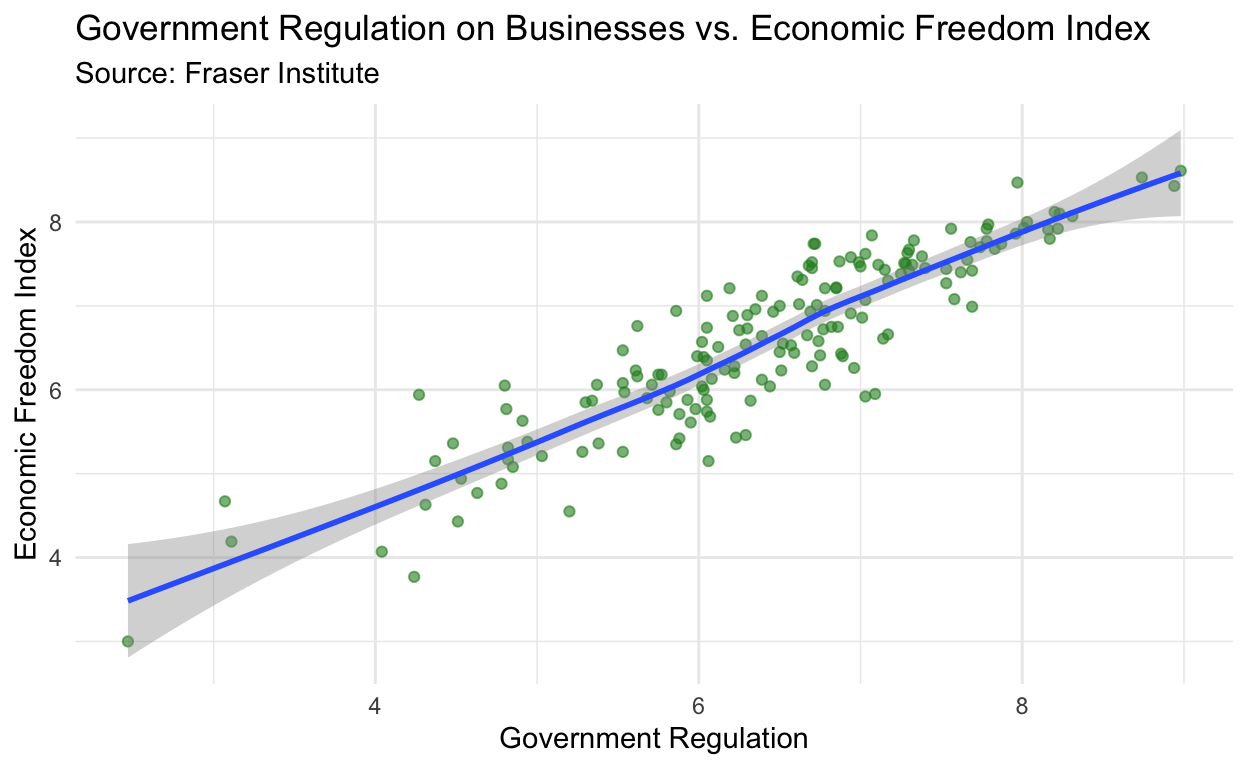
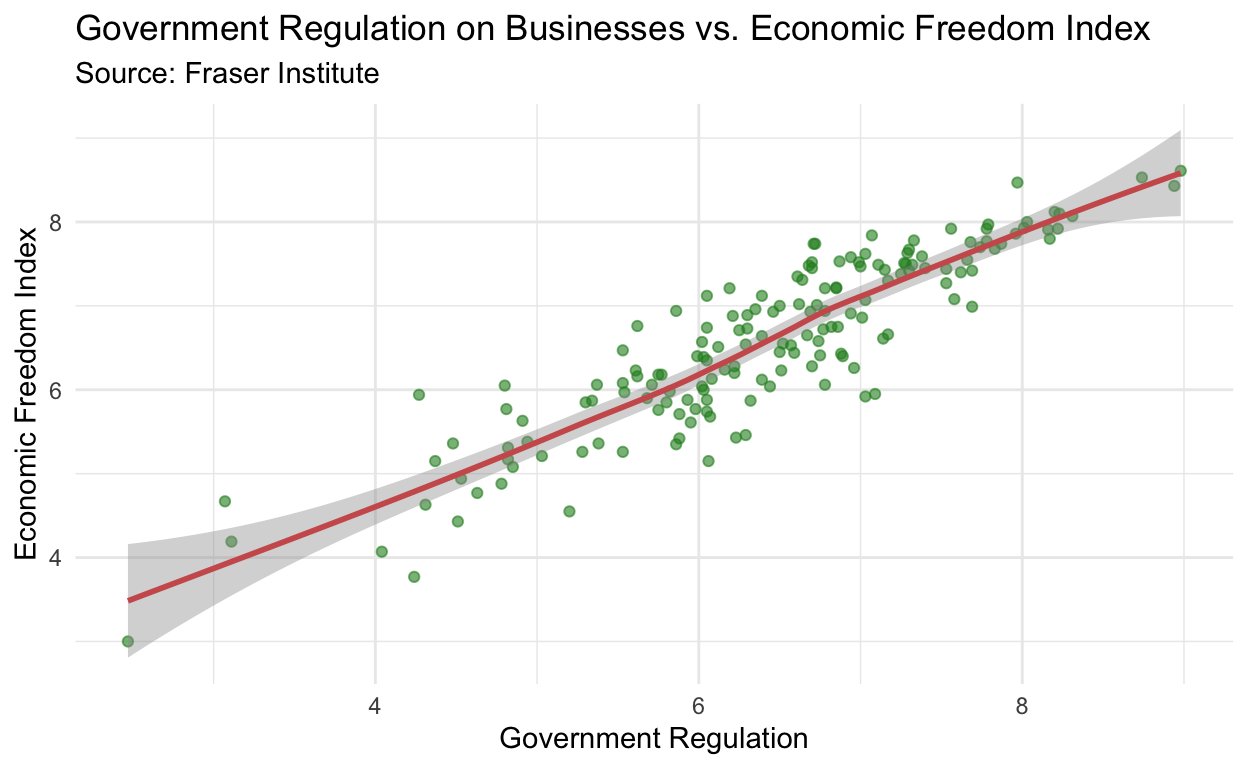
Keep it up

diff --git a/index.html b/index.html
@@ -90,7 +90,7 @@ code span.wa { color: #5e5e5e; font-style: italic; } /* Warning */
   <!--radix_placeholder_meta_tags-->
   <title>PS270 Final Project</title>
 
-  <meta property="description" itemprop="description" content="My final project"/>
+  <meta property="description" itemprop="description" content="An Analysis of Government Size, Regulation, and Economic Freedom"/>
 
 
   <meta name="article:author" content="Charlie Struhs"/>
@@ -98,24 +98,24 @@ code span.wa { color: #5e5e5e; font-style: italic; } /* Warning */
   <!--  https://developers.facebook.com/docs/sharing/webmasters#markup -->
   <meta property="og:title" content="PS270 Final Project"/>
   <meta property="og:type" content="article"/>
-  <meta property="og:description" content="My final project"/>
+  <meta property="og:description" content="An Analysis of Government Size, Regulation, and Economic Freedom"/>
   <meta property="og:locale" content="en_US"/>
 
   <!--  https://dev.twitter.com/cards/types/summary -->
   <meta property="twitter:card" content="summary"/>
   <meta property="twitter:title" content="PS270 Final Project"/>
-  <meta property="twitter:description" content="My final project"/>
+  <meta property="twitter:description" content="An Analysis of Government Size, Regulation, and Economic Freedom"/>
 
   <!--/radix_placeholder_meta_tags-->
   <!--radix_placeholder_rmarkdown_metadata-->
 
   <script type="text/json" id="radix-rmarkdown-metadata">
-  {"type":"list","attributes":{"names":{"type":"character","attributes":{},"value":["title","author","description","output"]}},"value":[{"type":"character","attributes":{},"value":["PS270 Final Project"]},{"type":"list","attributes":{},"value":[{"type":"list","attributes":{"names":{"type":"character","attributes":{},"value":["name"]}},"value":[{"type":"character","attributes":{},"value":["Charlie Struhs"]}]}]},{"type":"character","attributes":{},"value":["My final project"]},{"type":"list","attributes":{"names":{"type":"character","attributes":{},"value":["distill::distill_article"]}},"value":[{"type":"list","attributes":{"names":{"type":"character","attributes":{},"value":["self_contained"]}},"value":[{"type":"logical","attributes":{},"value":[false]}]}]}]}
+  {"type":"list","attributes":{"names":{"type":"character","attributes":{},"value":["title","author","description","output"]}},"value":[{"type":"character","attributes":{},"value":["PS270 Final Project"]},{"type":"list","attributes":{},"value":[{"type":"list","attributes":{"names":{"type":"character","attributes":{},"value":["name"]}},"value":[{"type":"character","attributes":{},"value":["Charlie Struhs"]}]}]},{"type":"character","attributes":{},"value":["An Analysis of Government Size, Regulation, and Economic Freedom"]},{"type":"list","attributes":{"names":{"type":"character","attributes":{},"value":["distill::distill_article"]}},"value":[{"type":"list","attributes":{"names":{"type":"character","attributes":{},"value":["self_contained"]}},"value":[{"type":"logical","attributes":{},"value":[false]}]}]}]}
   </script>
   <!--/radix_placeholder_rmarkdown_metadata-->
   
   <script type="text/json" id="radix-resource-manifest">
-  {"type":"character","attributes":{},"value":["economicdata2021-2021 (1).xlsx","efotw-2024-master-index-data-for-researchers-iso (1).xlsx","Fraser_data****.numbers","Fraser_data****.xlsx","index_files/anchor-4.2.2/anchor.min.js","index_files/bowser-1.9.3/bowser.min.js","index_files/distill-2.2.21/template.v2.js","index_files/figure-html5/unnamed-chunk-2-1.png","index_files/figure-html5/unnamed-chunk-3-1.png","index_files/header-attrs-2.17/header-attrs.js","index_files/header-attrs-2.28/header-attrs.js","index_files/jquery-3.6.0/jquery-3.6.0.js","index_files/jquery-3.6.0/jquery-3.6.0.min.js","index_files/jquery-3.6.0/jquery-3.6.0.min.map","index_files/popper-2.6.0/popper.min.js","index_files/tippy-6.2.7/tippy-bundle.umd.min.js","index_files/tippy-6.2.7/tippy-light-border.css","index_files/tippy-6.2.7/tippy.css","index_files/tippy-6.2.7/tippy.umd.min.js","index_files/webcomponents-2.0.0/webcomponents.js"]}
+  {"type":"character","attributes":{},"value":["economicdata2021-2021 (1).xlsx","efotw-2024-master-index-data-for-researchers-iso (1).xlsx","Fraser_data****.numbers","Fraser_data****.xlsx","index_files/anchor-4.2.2/anchor.min.js","index_files/bowser-1.9.3/bowser.min.js","index_files/distill-2.2.21/template.v2.js","index_files/figure-html5/unnamed-chunk-2-1.png","index_files/figure-html5/unnamed-chunk-3-1.png","index_files/header-attrs-2.17/header-attrs.js","index_files/header-attrs-2.28/header-attrs.js","index_files/header-attrs-2.29/header-attrs.js","index_files/jquery-3.6.0/jquery-3.6.0.js","index_files/jquery-3.6.0/jquery-3.6.0.min.js","index_files/jquery-3.6.0/jquery-3.6.0.min.map","index_files/popper-2.6.0/popper.min.js","index_files/tippy-6.2.7/tippy-bundle.umd.min.js","index_files/tippy-6.2.7/tippy-light-border.css","index_files/tippy-6.2.7/tippy.css","index_files/tippy-6.2.7/tippy.umd.min.js","index_files/webcomponents-2.0.0/webcomponents.js"]}
   </script>
   <!--radix_placeholder_navigation_in_header-->
   <!--/radix_placeholder_navigation_in_header-->
@@ -1518,7 +1518,7 @@ code span.wa { color: #5e5e5e; font-style: italic; } /* Warning */
 <!--radix_placeholder_front_matter-->
 
 <script id="distill-front-matter" type="text/json">
-{"title":"PS270 Final Project","description":"My final project","authors":[{"author":"Charlie Struhs","authorURL":"#","affiliation":"&nbsp;","affiliationURL":"#","orcidID":""}]}
+{"title":"PS270 Final Project","description":"An Analysis of Government Size, Regulation, and Economic Freedom","authors":[{"author":"Charlie Struhs","authorURL":"#","affiliation":"&nbsp;","affiliationURL":"#","orcidID":""}]}
 </script>
 
 <!--/radix_placeholder_front_matter-->
@@ -1532,7 +1532,7 @@ code span.wa { color: #5e5e5e; font-style: italic; } /* Warning */
 
 <!--radix_placeholder_categories-->
 <!--/radix_placeholder_categories-->
-<p>My final project</p>
+<p>An Analysis of Government Size, Regulation, and Economic Freedom</p>
 </div>
 
 <div class="d-byline">
@@ -1543,10 +1543,10 @@ code span.wa { color: #5e5e5e; font-style: italic; } /* Warning */
 </div>
 
 <div class="d-article">
-<h2 id="project-thoughts">Project thoughts</h2>
-<p>I am interested in exploring data related to conventions and whether or not the state turns to them when conventions are held there. I am also interested in looking at third party prevalence in America, such as where most people vote third party, what elections (national, gubernatorial, municipal) receive a bigger proportion of third party votes, and so on. Perhaps something even related to finance and politicians, where politicians choose to invest. Maybe something to do with federal spending and interest rates over time based on presidency and party. I am mainly concerned about how I will be able to formulate this as my skills in R are rudimentary, but I have no shortage of ideas as to what topics I would want to research and compile into a database.</p>
+<p>Research Question and Main Hypothesis</p>
+<p>Does the size of government impact a nation’s economic freedom? In this experiment, I plan to study how the sizes of governments influence a nation’s ability to trade freely and exercise economic freedom. My hypothesis is that larger governments-characterized by higher spending and greater regulatory control-will lead to more regulation on trade, leading to lower levels of economic freedom. This is rooted in the theory that larger governments often impose higher taxes and implement extensive regulations to increase government revenue, which distorts market functions, limits individual decision making, and reduces a nation’s trade openness.
+Using data from the Fraser Institute on world economics (linked below), my explanatory variable will be the variable “size of government”, which encompasses government consumption, subsidies, and state asset ownership. These indicators are scored on a scale from 0 to 10, 0 representing minimal government involvement and 10 maximum involvement. The dependent variable will be the overall economic freedom score, once again scaled from 0 to 10, 10 indicating the highest level of freedom. I expect to observe a negative correlation between government size and economic freedom. That is, a larger government will have a lower economic freedom score. Conversely, a positive correlation between government size and economic freedom would disprove my hypothesis, meaning a larger government would have a higher economic freedom score.</p>
 <p><a href="https://www.fraserinstitute.org/economic-freedom/dataset?geozone=world&amp;page=dataset&amp;min-year=2&amp;max-year=0&amp;filter=0&amp;year=2021" class="uri">https://www.fraserinstitute.org/economic-freedom/dataset?geozone=world&amp;page=dataset&amp;min-year=2&amp;max-year=0&amp;filter=0&amp;year=2021</a></p>
-<p>Does the size of government impact a nation’s economic freedom? In this experiment, I plan to study how the sizes of governments influence a nation’s ability to trade freely. My hypothesis is that a larger government, characterized by higher spending and greater regulatory control, will lead to more regulation on trade, and thus lower levels of economic freedom. This is grounded in the theory that larger governments often impose higher taxes and introduce more regulations which distort market functions, limit individual decision making, and reduce a nation’s trade openness. Using data from the Fraser Institute on world economics, my explanatory variable will be variables such as size of government, which includes data regarding government consumption, subsidies, and state asset ownership. These indicators are scored on a scale from 0 to 10, 0 representing minimal government involvement and 10 maximum involvement. Other variables may include legal system efficiency, protection of property rights, government regulation, and freedom to trade internationally, all of which may interact with government size to impact economic freedom. The dependent variable will be the overall economic freedom score, once again scaled from 0 to 10, 10 indicating the highest level of freedom. I expect to observe a negative correlation between government size and economic freedom. More importantly, a positive correlation between government size and economic freedom would disprove my hypothesis.</p>
 <p>Loading the data from Fraser Institute</p>
 <div class="layout-chunk" data-layout="l-body">
 <div class="sourceCode">
@@ -1590,7 +1590,7 @@ code span.wa { color: #5e5e5e; font-style: italic; } /* Warning */
 <pre class="sourceCode r"><code class="sourceCode r"><span><span class='va'>Fraser_data</span> <span class='op'>|&gt;</span></span>
 <span><span class='fu'><a href='https://ggplot2.tidyverse.org/reference/ggplot.html'>ggplot</a></span><span class='op'>(</span>mapping <span class='op'>=</span> <span class='fu'><a href='https://ggplot2.tidyverse.org/reference/aes.html'>aes</a></span><span class='op'>(</span>x <span class='op'>=</span> <span class='va'>govt_size</span>, y <span class='op'>=</span> <span class='va'>efi</span><span class='op'>)</span><span class='op'>)</span><span class='op'>+</span></span>
 <span>       <span class='fu'><a href='https://ggplot2.tidyverse.org/reference/geom_point.html'>geom_point</a></span><span class='op'>(</span>color <span class='op'>=</span> <span class='st'>"forestgreen"</span>, alpha <span class='op'>=</span> <span class='fl'>0.6</span><span class='op'>)</span><span class='op'>+</span></span>
-<span>  <span class='fu'><a href='https://ggplot2.tidyverse.org/reference/geom_smooth.html'>geom_smooth</a></span><span class='op'>(</span><span class='op'>)</span> <span class='op'>+</span></span>
+<span>  <span class='fu'><a href='https://ggplot2.tidyverse.org/reference/geom_smooth.html'>geom_smooth</a></span><span class='op'>(</span>color <span class='op'>=</span> <span class='st'>"indianred"</span><span class='op'>)</span> <span class='op'>+</span></span>
 <span>  <span class='fu'><a href='https://ggplot2.tidyverse.org/reference/labs.html'>labs</a></span><span class='op'>(</span>title <span class='op'>=</span> <span class='st'>"Government Size vs. Economic Freedom Index"</span>,</span>
 <span>       x <span class='op'>=</span> <span class='st'>"Government Size"</span>, </span>
 <span>      y <span class='op'>=</span> <span class='st'>"Economic Freedom Index"</span>,</span>
@@ -1601,13 +1601,13 @@ code span.wa { color: #5e5e5e; font-style: italic; } /* Warning */
 </div>
 <p>Analysis</p>
 <p>It appears that as the government size increases in the initial stages, economic freedom is seen to increase at the fastest rate. Around the freedom rankings 6 and 7 there is a slight drop, then an increase, then finally a slow decrease as the government size approaches 10. Most results seem to be clustered between the rankings of 6 and 7. at the ranking of 6.5, the approximated efi by the geom_smooth() line is a little under 6.5.the nation with the highest efi, Hong Kong, has a government size of 7.99. Overall, the relationship between government size and EFI is hard to state. One could draw the conclusion that a lack or excessive amount of government size deters economic freedom in general.</p>
-<p>Out of curiosity, let’s replace the government size variable and look at the regulation variable to explain EFI. This could show that government oversight deters entry into business, and thus a lower EFI score.</p>
+<p>As an alternative approach, we can shift focus from government size to the regulation variable as the explanatory variable for the EFI.A higher score in government regulation indicates low barriers to entry, ability for corporations to determine wages, and the extent to which the banking industry is privately controlled. Examining government oversight on economic activity may give insight on excessive regulation and its ability to reduce competition and deter business entry, contributing to a lower EFI score.</p>
 <div class="layout-chunk" data-layout="l-body">
 <div class="sourceCode">
 <pre class="sourceCode r"><code class="sourceCode r"><span><span class='va'>Fraser_data</span> <span class='op'>|&gt;</span></span>
 <span><span class='fu'><a href='https://ggplot2.tidyverse.org/reference/ggplot.html'>ggplot</a></span><span class='op'>(</span>mapping <span class='op'>=</span> <span class='fu'><a href='https://ggplot2.tidyverse.org/reference/aes.html'>aes</a></span><span class='op'>(</span>x <span class='op'>=</span> <span class='va'>regulation</span>, y <span class='op'>=</span> <span class='va'>efi</span><span class='op'>)</span><span class='op'>)</span><span class='op'>+</span></span>
 <span>       <span class='fu'><a href='https://ggplot2.tidyverse.org/reference/geom_point.html'>geom_point</a></span><span class='op'>(</span>color <span class='op'>=</span> <span class='st'>"forestgreen"</span>, alpha <span class='op'>=</span> <span class='fl'>0.6</span><span class='op'>)</span><span class='op'>+</span></span>
-<span>  <span class='fu'><a href='https://ggplot2.tidyverse.org/reference/geom_smooth.html'>geom_smooth</a></span><span class='op'>(</span><span class='op'>)</span> <span class='op'>+</span></span>
+<span>  <span class='fu'><a href='https://ggplot2.tidyverse.org/reference/geom_smooth.html'>geom_smooth</a></span><span class='op'>(</span>color <span class='op'>=</span> <span class='st'>"indianred"</span><span class='op'>)</span> <span class='op'>+</span></span>
 <span>  <span class='fu'><a href='https://ggplot2.tidyverse.org/reference/labs.html'>labs</a></span><span class='op'>(</span>title <span class='op'>=</span> <span class='st'>"Government Regulation on Businesses vs. Economic Freedom Index"</span>,</span>
 <span>       x <span class='op'>=</span> <span class='st'>"Government Regulation"</span>, </span>
 <span>      y <span class='op'>=</span> <span class='st'>"Economic Freedom Index"</span>,</span>
@@ -1616,7 +1616,7 @@ code span.wa { color: #5e5e5e; font-style: italic; } /* Warning */
 </div>
 <p><img src="index_files/figure-html5/unnamed-chunk-3-1.png" width="624" /></p>
 </div>
-<p>There is a much clearer relationship here. A higher score in government regulation indicates low barriers to entry, ability for corporations to determine wages, and the extent to which the banking industry is privately controlled. While this doesn’t indicate the how big the government is, it shows how regulatory measures that protect industries, tariffs or taxes on high valued goods, and increasing costs of production ultimately lower a nations economic freedom.</p>
+<p>The relationship here appears much clearer. The analysis reveals a positive correlation between government regulation and the EFI, indicating that higher scores in government regulation are associated with greater economic freedom. This leads us to suggest that well designed regulatory measures may, in fact, enhance economic freedom by reducing barriers and increasing market transparency. This is contraty to the common assumption that regulation restricts economic freedom. Nations with higher regulation scores likely implement policies that enable free market activity rather than hinder it.</p>
 <div class="sourceCode" id="cb2"><pre class="sourceCode r distill-force-highlighting-css"><code class="sourceCode r"></code></pre></div>
 <!--radix_placeholder_article_footer-->
 <!--/radix_placeholder_article_footer-->
